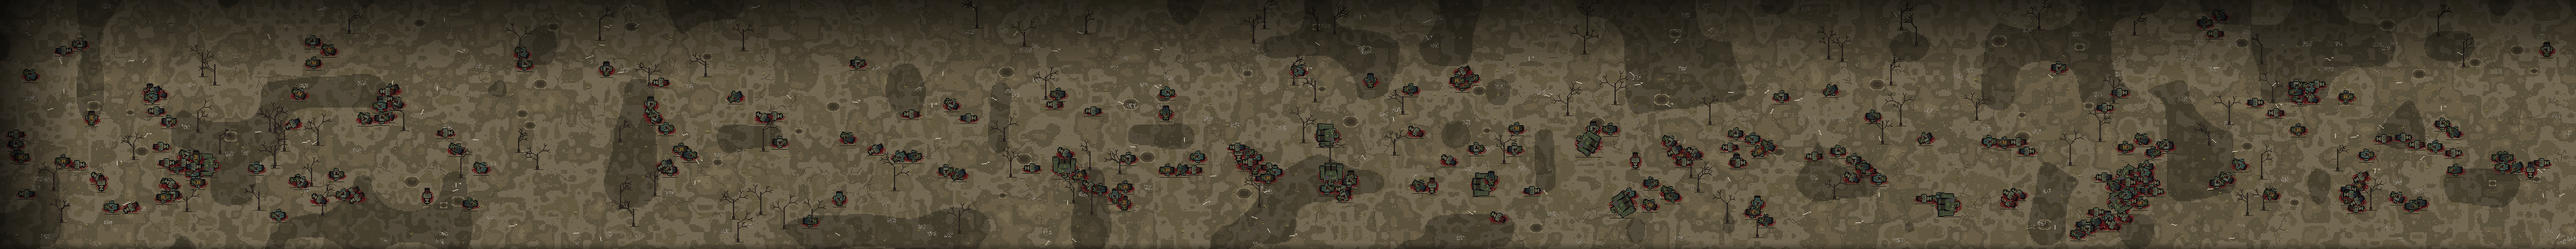
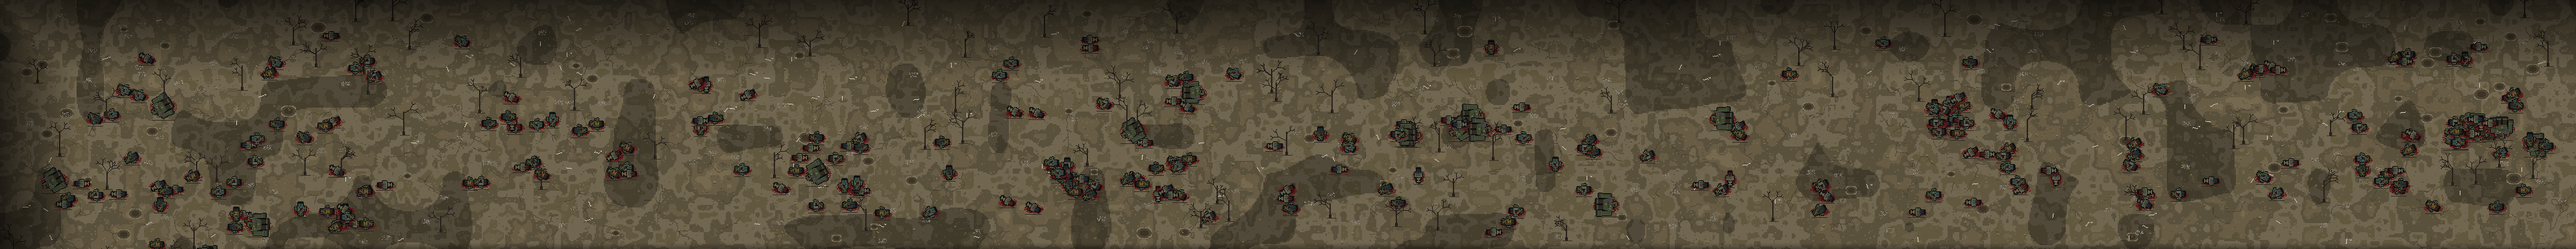
Campo desolado continuo en esquinas y uniones (un solo lienzo)
Claude-Session: https://claude.ai/code/session_01Nd1Qi9rDLjxtiWNgaqNdmZ

diff --git a/tools/gen_wasteland.py b/tools/gen_wasteland.py
@@ -14,9 +14,24 @@ SPR = os.path.join(HERE, "..", "assets", "sprites")
 OUT_DIR = os.path.join(HERE, "..", "assets", "world")
 DEPTH = 384          # profundidad del campo (24 tiles)
 MAP_W, MAP_H = 3584, 1920   # mapa en px (224x120 tiles)
-W, H = DEPTH, MAP_H
-SIDE = "west"        # west | north | south: lado donde esta la cerca
+# Un unico lienzo para todo el anillo (oeste + norte + sur) y luego se recorta en 3 imagenes:
+# asi las esquinas y las uniones son continuas (sin lineas). Coordenadas de lienzo = mundo + DEPTH.
+W, H = MAP_W + DEPTH, MAP_H + 2 * DEPTH
+MX0, MY0, MY1 = DEPTH, DEPTH, DEPTH + MAP_H   # el mapa ocupa x>=MX0, MY0<=y<MY1 (sin franja este)
 rnd = random.Random(20261104)
+
+
+def in_map(x, y, pad=0):
+    return x >= MX0 - pad and MY0 - pad <= y < MY1 + pad
+
+
+def rand_pt(up=0, side=14):
+    """Punto aleatorio del anillo cuyo objeto (alto `up`, medio ancho `side`) no invade el mapa."""
+    while True:
+        x, y = rnd.randrange(20, W - 20), rnd.randrange(20, H - 6)
+        if x + side >= MX0 and y - up <= MY1 + 2 and y + 4 >= MY0 - 2:
+            continue
+        return x, y
 
 
 def hx(s):
@@ -49,6 +64,8 @@ def base():
     cell = 2
     for y in range(0, H, cell):
         for x in range(0, W, cell):
+            if in_map(x, y):
+                continue
             n = vnoise(x, y, 11, 40) * 0.6 + vnoise(x, y, 7, 11) * 0.4
             i = min(len(GROUND) - 1, int(n * len(GROUND)))
             c = GROUND[i]
@@ -70,7 +87,7 @@ def put(img, x, y, c):
 
 def cracks(img, n):
     for _ in range(n):
-        x, y = rnd.randrange(10, W - 10), rnd.randrange(10, H - 10)
+        x, y = rand_pt(0, 4)
         ang = rnd.random() * math.tau
         for _ in range(rnd.randrange(12, 50)):
             ang += rnd.uniform(-0.5, 0.5)
@@ -116,7 +133,7 @@ def bones(img, cx, cy):
 
 def tufts(img, n):
     for _ in range(n):
-        x, y = rnd.randrange(4, W - 4), rnd.randrange(4, H - 4)
+        x, y = rand_pt(4, 2)
         c = rnd.choice((hx("8a7a3c"), hx("6e6230"), hx("9b8d52")))
         for k in range(rnd.randrange(2, 5)):
             put(img, x + k - 1, y - rnd.randrange(1, 4), c)
@@ -150,17 +167,21 @@ def dead_tree(img, x, y):
         put(img, x + dx, y + 1, hx("352e22"))
 
 
-def to_xy(depth, along):
-    """(profundidad desde la cerca, posicion a lo largo) -> pixel de la imagen."""
-    if SIDE == "west":
-        return W - depth, along
-    if SIDE == "north":
-        return along, H - depth
-    return along, depth
+def depth_at(x, y):
+    """Distancia (Chebyshev) al borde del mapa, igual en toda la esquina."""
+    dx = max(0, MX0 - x)
+    dy = max(0, MY0 - y, y - (MY1 - 1))
+    return max(dx, dy)
 
 
-def depth_of(x, y):
-    return W - x if SIDE == "west" else (H - y if SIDE == "north" else y)
+def ring_pt_near_fence(depth):
+    """Punto del anillo a `depth` px de la cerca (lado al azar, ponderado por longitud)."""
+    r = rnd.random() * (2 * W + MAP_H)
+    if r < W:
+        return rnd.randrange(20, W - 30), MY0 - depth
+    if r < 2 * W:
+        return rnd.randrange(20, W - 30), MY1 + depth
+    return MX0 - depth, rnd.randrange(MY0, MY1)
 
 
 def corpse_sprites():
@@ -203,11 +224,11 @@ def place_corpses(img, n):
             ox, oy = rnd.choice(spots)
             x, y = ox + rnd.randint(-26, 26), oy + rnd.randint(-22, 22)
         else:
-            depth = int(rnd.triangular(40, DEPTH - 30, 70))   # distancia a la cerca
-            along = rnd.randrange(20, (H if SIDE == "west" else W) - 30)
-            x, y = to_xy(depth, along)
+            x, y = ring_pt_near_fence(int(rnd.triangular(40, DEPTH - 30, 70)))
         x = max(24, min(W - 34, x))
         y = max(20, min(H - 24, y))
+        if in_map(x, y, 10):
+            continue
         spots.append((x, y))
         name, fr = rnd.choice(sprites[:-1] if rnd.random() < 0.95 else sprites[-1:])
         fr = dim(fr.copy())
@@ -227,48 +248,45 @@ def place_corpses(img, n):
 
 def vignette(img):
     px = img.load()
-    for x in range(W):
-        for y in range(H):
-            dp = depth_of(x, y)
+    for y in range(H):
+        for x in range(W):
+            if in_map(x, y):
+                continue
+            dp = depth_at(x, y)
             k = min(1.0, (DEPTH - dp) / 120.0)   # el campo se pierde en la niebla lejos de la cerca
             f = 0.35 + 0.65 * k
             if dp < 10:   # franja de sombra junto a la cerca
                 f *= 1.0 - (10 - dp) * 0.035
-            if SIDE != "west" and x < DEPTH:   # esquina: continua el oscurecimiento de la franja oeste
-                f *= 0.35 + 0.65 * min(1.0, x / 120.0)
             r, g, b, a = px[x, y]
             px[x, y] = (int(r * f), int(g * f), int(b * f), a)
 
 
-def make(side, name):
-    global W, H, SIDE
-    SIDE = side
-    W, H = (DEPTH, MAP_H) if side == "west" else (MAP_W + DEPTH, DEPTH)
-    # las franjas norte/sur cubren tambien la esquina oeste (x desde -384)
+def main():
     img = base()
-    scale = (W * H) / (384 * 1920)
+    scale = (W * H - MAP_W * MAP_H) / (384 * 1920)
     cracks(img, int(160 * scale))
     for _ in range(int(28 * scale)):
-        crater(img, rnd.randrange(40, W - 40), rnd.randrange(30, H - 30), rnd.randrange(4, 9))
+        cx, cy = rand_pt(9, 14)
+        crater(img, cx, cy, rnd.randrange(4, 9))
     for _ in range(int(90 * scale)):
-        ash_pile(img, rnd.randrange(6, W - 6), rnd.randrange(6, H - 6))
+        ash_pile(img, *rand_pt(0, 8))
     tufts(img, int(380 * scale))
     for _ in range(int(60 * scale)):
-        bones(img, rnd.randrange(12, W - 12), rnd.randrange(8, H - 8))
+        bones(img, *rand_pt(0, 8))
     place_corpses(img, int(135 * scale))
     for _ in range(int(46 * scale)):
-        dead_tree(img, rnd.randrange(10, W - 22), rnd.randrange(40, H - 6))
+        tx, ty = rand_pt(46, 12)
+        dead_tree(img, tx, ty)
     vignette(img)
     os.makedirs(OUT_DIR, exist_ok=True)
-    path = os.path.join(OUT_DIR, name)
-    img.convert("RGB").save(path, optimize=True)
-    print("ok", name, img.size, os.path.getsize(path))
-
-
-def main():
-    make("west", "wasteland.png")
-    make("north", "wasteland_n.png")
-    make("south", "wasteland_s.png")
+    rgb = img.convert("RGB")
+    # recortes: oeste (bajo el mapa-oeste), norte y sur (incluyen las esquinas)
+    for name, box in (("wasteland.png", (0, MY0, DEPTH, MY1)),
+                      ("wasteland_n.png", (0, 0, W, MY0)),
+                      ("wasteland_s.png", (0, MY1, W, H))):
+        path = os.path.join(OUT_DIR, name)
+        rgb.crop(box).save(path, optimize=True)
+        print("ok", name, os.path.getsize(path))
 
 
 if __name__ == "__main__":
